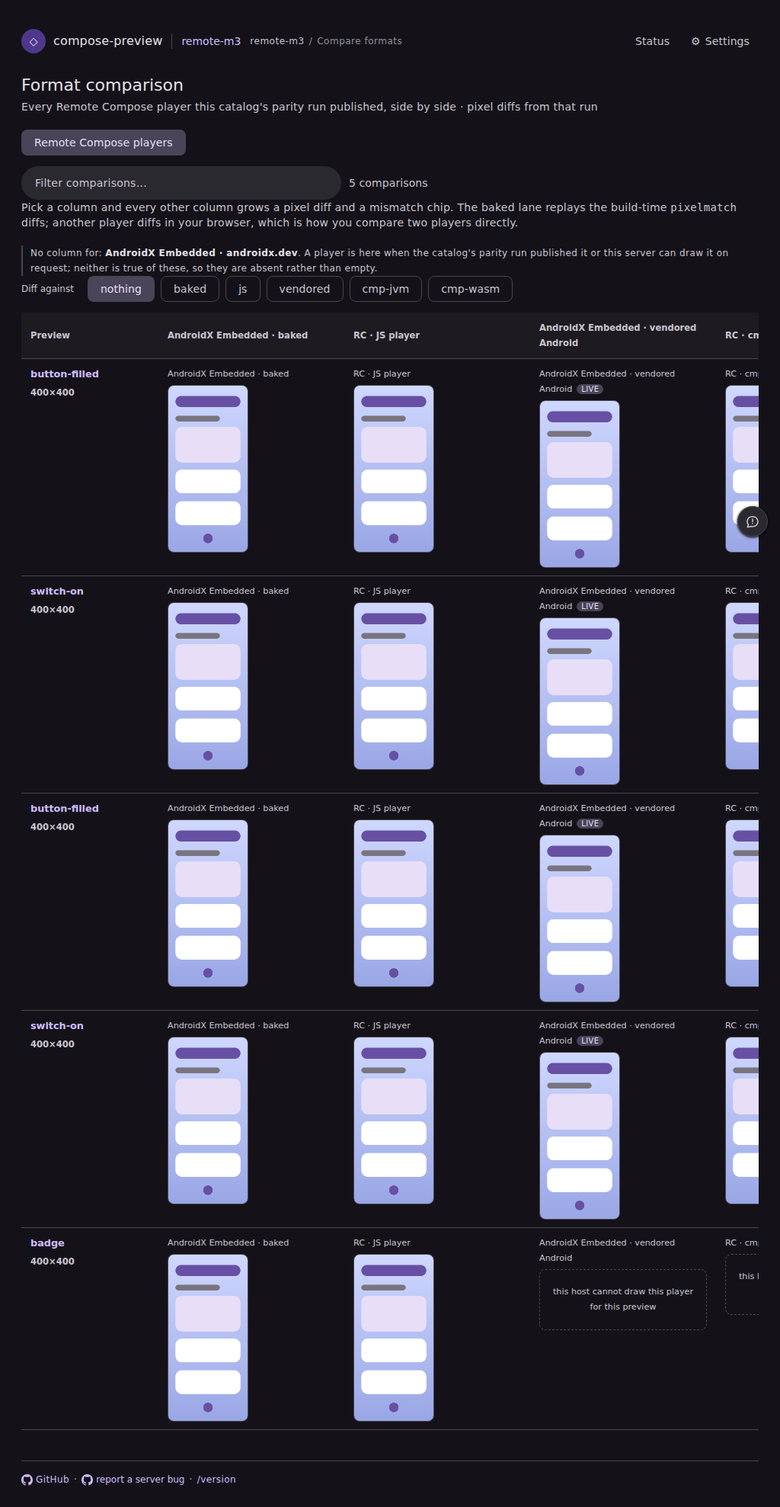
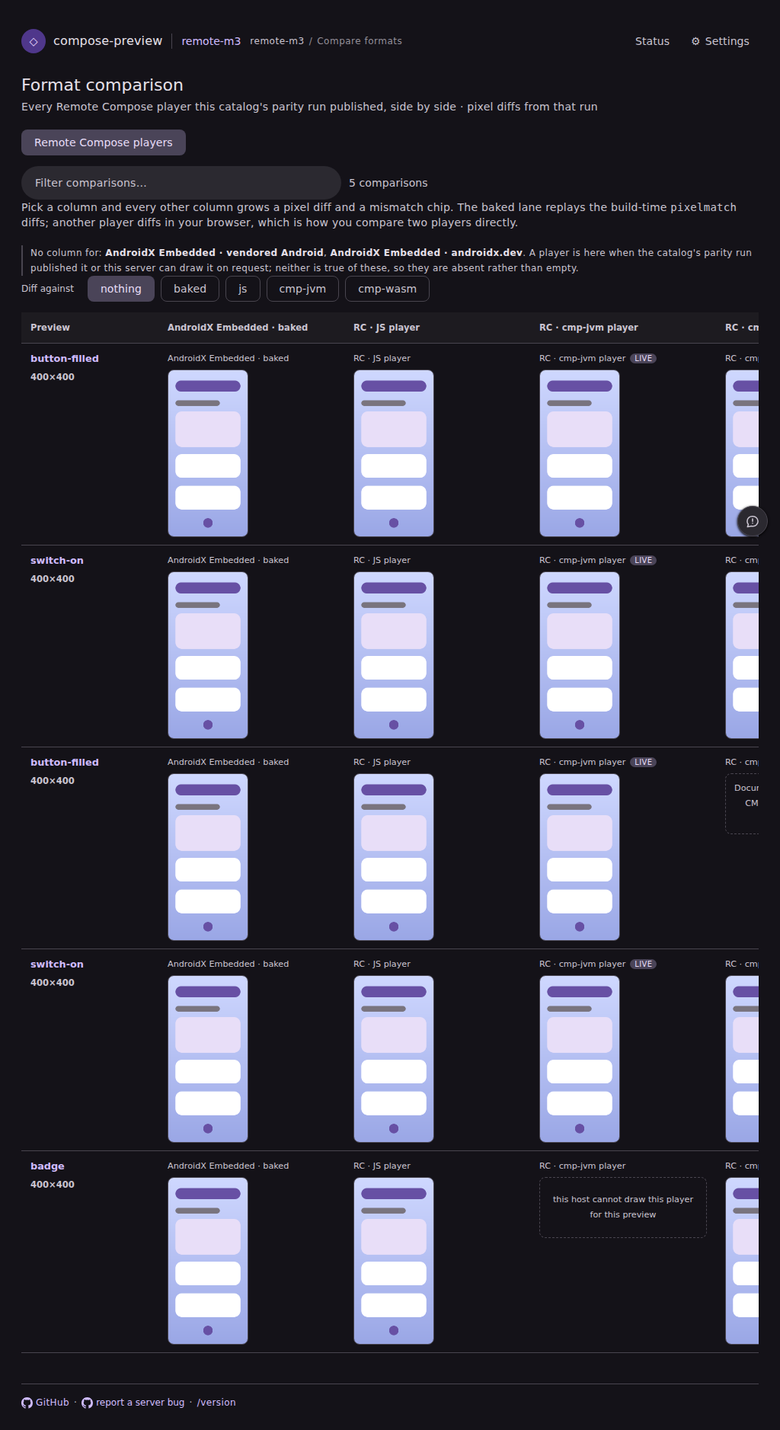
fix(serve): never fill a live column that duplicates the baked one
Testing the previous commit against the deployed remote-m3 host found the
defect it introduced. `?rcPlayer=cmp-android` there does not draw a second
opinion — it returns the baked capture itself, byte for byte:

  appcard__ideal__default__compact           baked e69d5136… cmp-android e69d5136…
  button-imagebackground__ideal__default__…  baked 48794c07… cmp-android 48794c07…

which follows from the players rather than from that host: `cmp-android` IS the
embedded AndroidX player, and a capture goes through it unless a preview pins
the view-backed lane. So the column would have been a copy of the one beside it
under a different player's name — a worse failure than the absent column it
replaced, because it asserts two players agree where nothing was compared.

`rcCompareLane` maps `cmp-android` to `embedded` for a different job — answering
a bare `?rcPlayer=` from staged bytes — and reusing it to decide what may FILL a
column was the mistake. The offline `embedded` lane is a third thing again: the
vendored player under this repo's Robolectric harness, a harness-vs-harness
check. Nothing records which player baked a row, so the duplication cannot be
caught per row either.

`LIVE_FILLABLE` now names what may fill: cmp-jvm, whose Skiko/Desktop rasteriser
cannot be what an Android capture was. `java` is distinct too but maps to no
published column, so filling one would invent a lane. The wall keeps reporting
both Android lanes absent, which on that host is the truth.
[…]

diff --git a/preview-harness/fixtures/pages/serve-rc-lanes-live.html b/preview-harness/fixtures/pages/serve-rc-lanes-live.html
@@ -79,15 +79,15 @@
         <p class="cp-sub">Pick a column and every other column grows a pixel diff and a mismatch chip.
           The baked lane replays the build-time <code>pixelmatch</code> diffs; another player diffs in your browser,
           which is how you compare two players directly.</p>
-        <p class="cp-rc-absent">No column for: <span class="cp-rc-absent-lane">AndroidX Embedded · androidx.dev</span>. A player is here when the catalog's parity run published it or this server can draw it on request; neither is true of these, so they are absent rather than empty.</p>
+        <p class="cp-rc-absent">No column for: <span class="cp-rc-absent-lane">AndroidX Embedded · vendored Android</span>, <span class="cp-rc-absent-lane">AndroidX Embedded · androidx.dev</span>. A player is here when the catalog's parity run published it or this server can draw it on request; neither is true of these, so they are absent rather than empty.</p>
         <div class="cp-compare-controls">
           <span class="cp-compare-control-label">Diff against</span>
-          <span class="cp-theme" role="group" aria-label="Diff reference"><button type="button" class="cp-theme-btn" data-rc-ref="none" aria-pressed="true">nothing</button><button type="button" class="cp-theme-btn" data-rc-ref="baked" aria-pressed="false">baked</button><button type="button" class="cp-theme-btn" data-rc-ref="js" aria-pressed="false">js</button><button type="button" class="cp-theme-btn" data-rc-ref="embedded" aria-pressed="false">vendored</button><button type="button" class="cp-theme-btn" data-rc-ref="cmp-jvm" aria-pressed="false">cmp-jvm</button><button type="button" class="cp-theme-btn" data-rc-ref="cmp-wasm" aria-pressed="false">cmp-wasm</button></span>
+          <span class="cp-theme" role="group" aria-label="Diff reference"><button type="button" class="cp-theme-btn" data-rc-ref="none" aria-pressed="true">nothing</button><button type="button" class="cp-theme-btn" data-rc-ref="baked" aria-pressed="false">baked</button><button type="button" class="cp-theme-btn" data-rc-ref="js" aria-pressed="false">js</button><button type="button" class="cp-theme-btn" data-rc-ref="cmp-jvm" aria-pressed="false">cmp-jvm</button><button type="button" class="cp-theme-btn" data-rc-ref="cmp-wasm" aria-pressed="false">cmp-wasm</button></span>
           <span id="cp-rc-status" class="cp-rc-status" role="status"></span>
         </div>
         <div class="cp-compare-table-wrap">
           <table class="cp-compare-table cp-rc-table">
-            <thead><tr><th>Preview</th><th>AndroidX Embedded · baked</th><th>RC · JS player</th><th>AndroidX Embedded · vendored Android</th><th>RC · cmp-jvm player</th><th>RC · cmp-wasm player</th></tr></thead>
+            <thead><tr><th>Preview</th><th>AndroidX Embedded · baked</th><th>RC · JS player</th><th>RC · cmp-jvm player</th><th>RC · cmp-wasm player</th></tr></thead>
             <tbody>
         <tr class="cp-rc-row" data-row="0" data-hay="button-filled button-filled__ideal__default__light button-filled__ideal__default__dark"
           data-preview-ids="button-filled__ideal__default__light button-filled__ideal__default__dark">
@@ -103,10 +103,6 @@
 </figure></td><td><figure class="cp-rc-cell" data-lane="js">
   <figcaption>RC · JS player<span class="cp-rc-refbadge">reference</span></figcaption>
   <img loading="lazy" src="/rc-compare/js/0.png?session=remote-m3" alt="button-filled — RC · JS player">
-  <div class="cp-rc-diffslot" hidden></div>
-</figure></td><td><figure class="cp-rc-cell" data-lane="embedded" data-live="1">
-  <figcaption>AndroidX Embedded · vendored Android<span class="cp-rc-livebadge" title="rendered by this server on request from the catalog's ir/*.rc document, not replayed from the parity run">live</span><span class="cp-rc-refbadge">reference</span></figcaption>
-  <img loading="lazy" src="/render/button-filled__ideal__default__light.png?session=remote-m3&amp;rcPlayer=cmp-android" alt="button-filled — AndroidX Embedded · vendored Android">
   <div class="cp-rc-diffslot" hidden></div>
 </figure></td><td><figure class="cp-rc-cell" data-lane="cmp-jvm" data-live="1">
   <figcaption>RC · cmp-jvm player<span class="cp-rc-livebadge" title="rendered by this server on request from the catalog's ir/*.rc document, not replayed from the parity run">live</span><span class="cp-rc-refbadge">reference</span></figcaption>
@@ -133,10 +129,6 @@
   <figcaption>RC · JS player<span class="cp-rc-refbadge">reference</span></figcaption>
   <img loading="lazy" src="/rc-compare/js/2.png?session=remote-m3" alt="switch-on — RC · JS player">
   <div class="cp-rc-diffslot" hidden></div>
-</figure></td><td><figure class="cp-rc-cell" data-lane="embedded" data-live="1">
-  <figcaption>AndroidX Embedded · vendored Android<span class="cp-rc-livebadge" title="rendered by this server on request from the catalog's ir/*.rc document, not replayed from the parity run">live</span><span class="cp-rc-refbadge">reference</span></figcaption>
-  <img loading="lazy" src="/render/switch-on__ideal__default__light.png?session=remote-m3&amp;rcPlayer=cmp-android" alt="switch-on — AndroidX Embedded · vendored Android">
-  <div class="cp-rc-diffslot" hidden></div>
 </figure></td><td><figure class="cp-rc-cell" data-lane="cmp-jvm" data-live="1">
   <figcaption>RC · cmp-jvm player<span class="cp-rc-livebadge" title="rendered by this server on request from the catalog's ir/*.rc document, not replayed from the parity run">live</span><span class="cp-rc-refbadge">reference</span></figcaption>
   <img loading="lazy" src="/render/switch-on__ideal__default__light.png?session=remote-m3&amp;rcPlayer=cmp-jvm" alt="switch-on — RC · cmp-jvm player">
@@ -161,10 +153,6 @@
 </figure></td><td><figure class="cp-rc-cell" data-lane="js">
   <figcaption>RC · JS player<span class="cp-rc-refbadge">reference</span></figcaption>
   <img loading="lazy" src="/rc-compare/js/1.png?session=remote-m3" alt="button-filled — RC · JS player">
-  <div class="cp-rc-diffslot" hidden></div>
-</figure></td><td><figure class="cp-rc-cell" data-lane="embedded" data-live="1">
-  <figcaption>AndroidX Embedded · vendored Android<span class="cp-rc-livebadge" title="rendered by this server on request from the catalog's ir/*.rc document, not replayed from the parity run">live</span><span class="cp-rc-refbadge">reference</span></figcaption>
-  <img loading="lazy" src="/render/button-filled__ideal__default__dark.png?session=remote-m3&amp;rcPlayer=cmp-android" alt="button-filled — AndroidX Embedded · vendored Android">
   <div class="cp-rc-diffslot" hidden></div>
 </figure></td><td><figure class="cp-rc-cell" data-lane="cmp-jvm" data-live="1">
   <figcaption>RC · cmp-jvm player<span class="cp-rc-livebadge" title="rendered by this server on request from the catalog's ir/*.rc document, not replayed from the parity run">live</span><span class="cp-rc-refbadge">reference</span></figcaption>
@@ -191,10 +179,6 @@
   <figcaption>RC · JS player<span class="cp-rc-refbadge">reference</span></figcaption>
   <img loading="lazy" src="/rc-compare/js/3.png?session=remote-m3" alt="switch-on — RC · JS player">
   <div class="cp-rc-diffslot" hidden></div>
-</figure></td><td><figure class="cp-rc-cell" data-lane="embedded" data-live="1">
-  <figcaption>AndroidX Embedded · vendored Android<span class="cp-rc-livebadge" title="rendered by this server on request from the catalog's ir/*.rc document, not replayed from the parity run">live</span><span class="cp-rc-refbadge">reference</span></figcaption>
-  <img loading="lazy" src="/render/switch-on__ideal__default__dark.png?session=remote-m3&amp;rcPlayer=cmp-android" alt="switch-on — AndroidX Embedded · vendored Android">
-  <div class="cp-rc-diffslot" hidden></div>
 </figure></td><td><figure class="cp-rc-cell" data-lane="cmp-jvm" data-live="1">
   <figcaption>RC · cmp-jvm player<span class="cp-rc-livebadge" title="rendered by this server on request from the catalog's ir/*.rc document, not replayed from the parity run">live</span><span class="cp-rc-refbadge">reference</span></figcaption>
   <img loading="lazy" src="/render/switch-on__ideal__default__dark.png?session=remote-m3&amp;rcPlayer=cmp-jvm" alt="switch-on — RC · cmp-jvm player">
@@ -220,10 +204,6 @@
   <figcaption>RC · JS player<span class="cp-rc-refbadge">reference</span></figcaption>
   <img loading="lazy" src="/rc-compare/js/4.png?session=remote-m3" alt="badge — RC · JS player">
   <div class="cp-rc-diffslot" hidden></div>
-</figure></td><td><figure class="cp-rc-cell" data-lane="embedded">
-  <figcaption>AndroidX Embedded · vendored Android<span class="cp-rc-refbadge">reference</span></figcaption>
-  <div class="cp-rc-missing">this host cannot draw this player for this preview</div>
-  <div class="cp-rc-diffslot" hidden></div>
 </figure></td><td><figure class="cp-rc-cell" data-lane="cmp-jvm">
   <figcaption>RC · cmp-jvm player<span class="cp-rc-refbadge">reference</span></figcaption>
   <div class="cp-rc-missing">this host cannot draw this player for this preview</div>
@@ -238,7 +218,7 @@
           </table>
         </div>
         <p id="cp-rc-empty" class="cp-empty" hidden>No comparisons match this filter.</p>
-        <script type="application/json" id="cp-rc-model">{"threshold":0.1,"lanes":[{"id":"baked","label":"AndroidX Embedded · baked","short":"baked"},{"id":"js","label":"RC · JS player","short":"js"},{"id":"cmp-wasm","label":"RC · cmp-wasm player","short":"cmp-wasm"}],"rows":[{"label":"button-filled","referenceBlank":false,"lanes":{"baked":{"rendered":true,"render":"/rc-compare/baked/0.png?session=remote-m3","diff":"","mismatchPct":null,"mismatchPx":null,"note":""},"js":{"rendered":true,"render":"/rc-compare/js/0.png?session=remote-m3","diff":"/rc-compare/js-diff/0.png?session=remote-m3","mismatchPct":2.97,"mismatchPx":9116,"note":""},"cmp-wasm":{"rendered":true,"render":"/rc-compare/cmp-wasm/0.png?session=remote-m3","diff":"/rc-compare/cmp-wasm-diff/0.png?session=remote-m3","mismatchPct":3.4,"mismatchPx":12040,"note":""},"embedded":{"rendered":true,"render":"/render/button-filled__ideal__default__light.png?session=remote-m3&rcPlayer=cmp-android","diff":"","mismatchPct":null,"mismatchPx":null,"note":""},"cmp-jvm":{"rendered":true,"render":"/render/button-filled__ideal__default__light.png?session=remote-m3&rcPlayer=cmp-jvm","diff":"","mismatchPct":null,"mismatchPx":null,"note":""}}},{"label":"switch-on","referenceBlank":false,"lanes":{"baked":{"rendered":true,"render":"/rc-compare/baked/2.png?session=remote-m3","diff":"","mismatchPct":null,"mismatchPx":null,"note":""},"js":{"rendered":true,"render":"/rc-compare/js/2.png?session=remote-m3","diff":"/rc-compare/js-diff/2.png?session=remote-m3","mismatchPct":2.17,"mismatchPx":7316,"note":""},"cmp-wasm":{"rendered":true,"render":"/rc-compare/cmp-wasm/2.png?session=remote-m3","diff":"/rc-compare/cmp-wasm-diff/2.png?session=remote-m3","mismatchPct":2.8,"mismatchPx":10240,"note":""},"embedded":{"rendered":true,"render":"/render/switch-on__ideal__default__light.png?session=remote-m3&rcPlayer=cmp-android","diff":"","mismatchPct":null,"mismatchPx":null,"note":""},"cmp-jvm":{"rendered":true,"render":"/render/switch-on__ideal__default__light.png?session=remote-m3&rcPlayer=cmp-jvm","diff":"","mismatchPct":null,"mismatchPx":null,"note":""}}},{"label":"button-filled","referenceBlank":false,"lanes":{"baked":{"rendered":true,"render":"/rc-compare/baked/1.png?session=remote-m3","diff":"","mismatchPct":null,"mismatchPx":null,"note":""},"js":{"rendered":true,"render":"/rc-compare/js/1.png?session=remote-m3","diff":"/rc-compare/js-diff/1.png?session=remote-m3","mismatchPct":2.5700000000000003,"mismatchPx":8216,"note":""},"cmp-wasm":{"rendered":false,"render":"","diff":"","mismatchPct":null,"mismatchPx":null,"note":"Document is not renderable by the CMP player: CoreText requires DataFont"},"embedded":{"rendered":true,"render":"/render/button-filled__ideal__default__dark.png?session=remote-m3&rcPlayer=cmp-android","diff":"","mismatchPct":null,"mismatchPx":null,"note":""},"cmp-jvm":{"rendered":true,"render":"/render/button-filled__ideal__default__dark.png?session=remote-m3&rcPlayer=cmp-jvm","diff":"","mismatchPct":null,"mismatchPx":null,"note":""}}},{"label":"switch-on","referenceBlank":false,"lanes":{"baked":{"rendered":true,"render":"/rc-compare/baked/3.png?session=remote-m3","diff":"","mismatchPct":null,"mismatchPx":null,"note":""},"js":{"rendered":true,"render":"/rc-compare/js/3.png?session=remote-m3","diff":"/rc-compare/js-diff/3.png?session=remote-m3","mismatchPct":1.77,"mismatchPx":6416,"note":""},"cmp-wasm":{"rendered":true,"render":"/rc-compare/cmp-wasm/3.png?session=remote-m3","diff":"/rc-compare/cmp-wasm-diff/3.png?session=remote-m3","mismatchPct":2.5,"mismatchPx":9340,"note":""},"embedded":{"rendered":true,"render":"/render/switch-on__ideal__default__dark.png?session=remote-m3&rcPlayer=cmp-android","diff":"","mismatchPct":null,"mismatchPx":null,"note":""},"cmp-jvm":{"rendered":true,"render":"/render/switch-on__ideal__default__dark.png?session=remote-m3&rcPlayer=cmp-jvm","diff":"","mismatchPct":null,"mismatchPx":null,"note":""}}},{"label":"badge","referenceBlank":false,"lanes":{"baked":{"rendered":true,"render":"/rc-compare/baked/4.png?session=remote-m3","diff":"","mismatchPct":null,"mismatchPx":null,"note":""},"js":{"rendered":true,"render":"/rc-compare/js/4.png?session=remote-m3","diff":"/rc-compare/js-diff/4.png?session=remote-m3","mismatchPct":1.37,"mismatchPx":5516,"note":""},"cmp-wasm":{"rendered":true,"render":"/rc-compare/cmp-wasm/4.png?session=remote-m3","diff":"/rc-compare/cmp-wasm-diff/4.png?session=remote-m3","mismatchPct":2.2,"mismatchPx":8440,"note":""},"embedded":{"rendered":false,"render":"","diff":"","mismatchPct":null,"mismatchPx":null,"note":"this host cannot draw this player for this preview"},"cmp-jvm":{"rendered":false,"render":"","diff":"","mismatchPct":null,"mismatchPx":null,"note":"this host cannot draw this player for this preview"}}}]}</script>
+        <script type="application/json" id="cp-rc-model">{"threshold":0.1,"lanes":[{"id":"baked","label":"AndroidX Embedded · baked","short":"baked"},{"id":"js","label":"RC · JS player","short":"js"},{"id":"cmp-wasm","label":"RC · cmp-wasm player","short":"cmp-wasm"}],"rows":[{"label":"button-filled","referenceBlank":false,"lanes":{"baked":{"rendered":true,"render":"/rc-compare/baked/0.png?session=remote-m3","diff":"","mismatchPct":null,"mismatchPx":null,"note":""},"js":{"rendered":true,"render":"/rc-compare/js/0.png?session=remote-m3","diff":"/rc-compare/js-diff/0.png?session=remote-m3","mismatchPct":2.97,"mismatchPx":9116,"note":""},"cmp-wasm":{"rendered":true,"render":"/rc-compare/cmp-wasm/0.png?session=remote-m3","diff":"/rc-compare/cmp-wasm-diff/0.png?session=remote-m3","mismatchPct":3.4,"mismatchPx":12040,"note":""},"cmp-jvm":{"rendered":true,"render":"/render/button-filled__ideal__default__light.png?session=remote-m3&rcPlayer=cmp-jvm","diff":"","mismatchPct":null,"mismatchPx":null,"note":""}}},{"label":"switch-on","referenceBlank":false,"lanes":{"baked":{"rendered":true,"render":"/rc-compare/baked/2.png?session=remote-m3","diff":"","mismatchPct":null,"mismatchPx":null,"note":""},"js":{"rendered":true,"render":"/rc-compare/js/2.png?session=remote-m3","diff":"/rc-compare/js-diff/2.png?session=remote-m3","mismatchPct":2.17,"mismatchPx":7316,"note":""},"cmp-wasm":{"rendered":true,"render":"/rc-compare/cmp-wasm/2.png?session=remote-m3","diff":"/rc-compare/cmp-wasm-diff/2.png?session=remote-m3","mismatchPct":2.8,"mismatchPx":10240,"note":""},"cmp-jvm":{"rendered":true,"render":"/render/switch-on__ideal__default__light.png?session=remote-m3&rcPlayer=cmp-jvm","diff":"","mismatchPct":null,"mismatchPx":null,"note":""}}},{"label":"button-filled","referenceBlank":false,"lanes":{"baked":{"rendered":true,"render":"/rc-compare/baked/1.png?session=remote-m3","diff":"","mismatchPct":null,"mismatchPx":null,"note":""},"js":{"rendered":true,"render":"/rc-compare/js/1.png?session=remote-m3","diff":"/rc-compare/js-diff/1.png?session=remote-m3","mismatchPct":2.5700000000000003,"mismatchPx":8216,"note":""},"cmp-wasm":{"rendered":false,"render":"","diff":"","mismatchPct":null,"mismatchPx":null,"note":"Document is not renderable by the CMP player: CoreText requires DataFont"},"cmp-jvm":{"rendered":true,"render":"/render/button-filled__ideal__default__dark.png?session=remote-m3&rcPlayer=cmp-jvm","diff":"","mismatchPct":null,"mismatchPx":null,"note":""}}},{"label":"switch-on","referenceBlank":false,"lanes":{"baked":{"rendered":true,"render":"/rc-compare/baked/3.png?session=remote-m3","diff":"","mismatchPct":null,"mismatchPx":null,"note":""},"js":{"rendered":true,"render":"/rc-compare/js/3.png?session=remote-m3","diff":"/rc-compare/js-diff/3.png?session=remote-m3","mismatchPct":1.77,"mismatchPx":6416,"note":""},"cmp-wasm":{"rendered":true,"render":"/rc-compare/cmp-wasm/3.png?session=remote-m3","diff":"/rc-compare/cmp-wasm-diff/3.png?session=remote-m3","mismatchPct":2.5,"mismatchPx":9340,"note":""},"cmp-jvm":{"rendered":true,"render":"/render/switch-on__ideal__default__dark.png?session=remote-m3&rcPlayer=cmp-jvm","diff":"","mismatchPct":null,"mismatchPx":null,"note":""}}},{"label":"badge","referenceBlank":false,"lanes":{"baked":{"rendered":true,"render":"/rc-compare/baked/4.png?session=remote-m3","diff":"","mismatchPct":null,"mismatchPx":null,"note":""},"js":{"rendered":true,"render":"/rc-compare/js/4.png?session=remote-m3","diff":"/rc-compare/js-diff/4.png?session=remote-m3","mismatchPct":1.37,"mismatchPx":5516,"note":""},"cmp-wasm":{"rendered":true,"render":"/rc-compare/cmp-wasm/4.png?session=remote-m3","diff":"/rc-compare/cmp-wasm-diff/4.png?session=remote-m3","mismatchPct":2.2,"mismatchPx":8440,"note":""},"cmp-jvm":{"rendered":false,"render":"","diff":"","mismatchPct":null,"mismatchPx":null,"note":"this host cannot draw this player for this preview"}}}]}</script>
         <!-- Picks the reference, measures the rows and fills in the chips. Emitted LAST in this
              section, immediately after the model it reads: `format-compare.js` calls
              `window.cpRcLanes.filter()` on its very first pass, so the element has to be able to

diff --git a/server/src/test/kotlin/ee/schimke/composeai/cli/serve/ServeWebFixtureTest.kt b/server/src/test/kotlin/ee/schimke/composeai/cli/serve/ServeWebFixtureTest.kt
@@ -1786,8 +1786,10 @@ class ServeWebFixtureTest {
         trust = "branch:yschimke/compose-ai-tools@design-artifacts/remote-m3",
         isPublic = true,
         rcCompare = rcCompareFixture(themedPreviews, lanes = setOf("baked", "js", "cmp-wasm")),
-        // `badge` stands in for a preview the host carries no document for, so the wall has to
-        // show a column its rows do not all fill.
+        // The host offers BOTH server-side players, and the wall must take only cmp-jvm: on an
+        // Android daemon `?rcPlayer=cmp-android` returns the baked capture itself, so that column
+        // would duplicate the one beside it. `badge` stands in for a preview the host carries no
+        // document for, so the wall also has to show a column its rows do not all fill.
         liveRcPlayersFor = { previewId ->
           if (previewId.startsWith("badge")) emptyList()
           else listOf(RcPlayerBackend.CMP_ANDROID, RcPlayerBackend.CMP_JVM)
@@ -4356,7 +4358,6 @@ class ServeWebFixtureTest {
       listOf(
         "AndroidX Embedded · baked",
         "RC · JS player",
-        "AndroidX Embedded · vendored Android",
         "RC · cmp-jvm player",
         "RC · cmp-wasm player",
       ),
@@ -4365,10 +4366,15 @@ class ServeWebFixtureTest {
         .map { it.groupValues[1] }
         .toList()
         .drop(1),
-      "a host that can draw a player gets its column, ordered with the published ones",
+      "a live column appears for a renderer that cannot duplicate the baked capture, and only that",
+    )
+    // The one that must NOT appear, and the reason this filter exists at all.
+    assertFalse(
+      rcLanesLiveComparison.contains("rcPlayer=cmp-android"),
+      "cmp-android is never filled live: an Android daemon answers it with the baked bytes",
     )
     assertEquals(
-      listOf("AndroidX Embedded · androidx.dev"),
+      listOf("AndroidX Embedded · vendored Android", "AndroidX Embedded · androidx.dev"),
       Regex("<span class=\"cp-rc-absent-lane\">([^<]+)</span>")
         .findAll(rcLanesLiveComparison)
         .map { it.groupValues[1] }
@@ -4376,7 +4382,7 @@ class ServeWebFixtureTest {
       "only a player neither published nor drawable on demand is still reported absent",
     )
     assertEquals(
-      listOf("none", "baked", "js", "embedded", "cmp-jvm", "cmp-wasm"),
+      listOf("none", "baked", "js", "cmp-jvm", "cmp-wasm"),
       Regex("data-rc-ref=\"([^\"]+)\"")
         .findAll(rcLanesLiveComparison)
         .map { it.groupValues[1] }
@@ -4388,17 +4394,14 @@ class ServeWebFixtureTest {
     // whether or not the lane was ever staged.
     assertTrue(
       rcLanesLiveComparison.contains(
-        "/render/button-filled__ideal__default__light.png?session=remote-m3&amp;rcPlayer=cmp-android"
-      ) &&
-        rcLanesLiveComparison.contains(
-          "/render/button-filled__ideal__default__light.png?session=remote-m3&amp;rcPlayer=cmp-jvm"
-        ),
+        "/render/button-filled__ideal__default__light.png?session=remote-m3&amp;rcPlayer=cmp-jvm"
+      ),
       "a live cell points at this host's render endpoint for that player and preview",
     )
     assertEquals(
-      8,
+      4,
       Regex("data-live=\"1\"").findAll(rcLanesLiveComparison).count(),
-      "every live cell is marked as drawn on request — two players over the four rows that carry a document",
+      "every live cell is marked as drawn on request — one player over the four rows that carry a document",
     )
     assertTrue(
       rcLanesLiveComparison.contains(

diff --git a/server/src/main/kotlin/ee/schimke/composeai/cli/serve/ServeWeb.kt b/server/src/main/kotlin/ee/schimke/composeai/cli/serve/ServeWeb.kt
@@ -10070,6 +10070,30 @@ ${captureControlsHtml().prependIndent("          ")}
   }
 
   /**
+   * The backends a missing column may be filled from by rendering it live — NOT simply every
+   * backend the host can draw, which is the whole point of the distinction.
+   *
+   * `cmp-android` is the embedded AndroidX player, and a catalog's baked capture goes through that
+   * same player (it is what `RemoteOverridablePreview` defaults to), so on an Android daemon
+   * `?rcPlayer=cmp-android` hands back the baked bytes themselves. Measured against the deployed
+   * `remote-m3` host: `appcard__ideal__default__compact` answers md5 `e69d5136…` to both the bare
+   * render and `?rcPlayer=cmp-android`, and `button-imagebackground__ideal__default__compact`
+   * answers `48794c07…` to both. A column filled from that would be a pixel-for-pixel copy of the
+   * baked column under another player's name — worse than an absent column, because it asserts that
+   * two players agree where nothing was compared.
+   *
+   * The offline `embedded` lane is a third thing again: the vendored/local-patch player under this
+   * repo's own Robolectric harness, a harness-vs-harness check on that same player. Nothing records
+   * which player baked a given row (see [ServeRcCompare.LANES]'s note on provenance), so the
+   * duplication cannot be detected per row either — carry that provenance before widening this set.
+   *
+   * `cmp-jvm` is safe: Compose Desktop / Skiko is a different rasteriser from anything an Android
+   * capture can be. `java` is genuinely distinct too, but maps to no published column, so filling
+   * one would invent a lane the offline vocabulary does not have.
+   */
+  private val LIVE_FILLABLE = setOf(RcPlayerBackend.CMP_JVM)
+
+  /**
    * The **Remote Compose players** view: every player's published render of every `ir/<id>.rc`
    * document, one column per player, with the baked capture (the offline Robolectric/Skiko render,
    * and the reference the offline run scored everything against) first.
@@ -10118,16 +10142,13 @@ ${captureControlsHtml().prependIndent("          ")}
 
     // ---- The live columns -------------------------------------------------------------------
     //
-    // A player this host can draw but the published run has no column for. Only the server-side
-    // raster backends qualify: the client-side ones (`js`, `cmp-wasm`) paint in the visitor's
-    // browser rather than answering an `<img>`, and `java` maps to no published column at all, so
-    // adding one here would invent a lane the vocabulary does not have.
+    // A player this host can draw, that the published run has no column for, and that cannot come
+    // back as a copy of a column already on the wall. [LIVE_FILLABLE] carries the last condition
+    // and the measurements behind it.
     val publishedLaneIds = manifest.lanes.mapTo(mutableSetOf()) { it.id }
     val liveCandidates =
       RcPlayerBackend.UNIVERSE.filter { backend ->
-        !backend.clientSide &&
-          backend.rcCompareLane != null &&
-          backend.rcCompareLane !in publishedLaneIds
+        backend in LIVE_FILLABLE && backend.rcCompareLane !in publishedLaneIds
       }
     // Availability is per preview — a host can carry the document for one and not another — so a
     // column appears when ANY row can draw it, and the rows that cannot say so in their own cell.

diff --git a/renders/rc-lane-absence/README.md b/renders/rc-lane-absence/README.md
@@ -19,7 +19,7 @@ the lane vocabulary it subtracts the published lanes from is
 | `rc-lanes-partial.before.light.png` | the three-column wall as it shipped: nothing says the other three players exist |
 | `rc-lanes-partial.after.light.png` | the same wall naming the players the run did not include |
 | `rc-lanes-partial.after.dark.png` | the same page in the dark scheme |
-| `rc-lanes-live.light.png` | the same partial run on a host that can draw two of the missing players itself: five columns, the live ones badged, and only the player nothing can produce still reported absent |
+| `rc-lanes-live.light.png` | the same partial run on a host that can draw a missing player itself: the cmp-jvm column filled live and badged, the two Android lanes still reported absent |
 | `rc-lanes-live.dark.png` | the live wall in the dark scheme |
 
 All are headless-Chromium captures of committed harness fixtures —
@@ -33,3 +33,10 @@ the offline run, but the recorded `ir/<id>.rc` document plus a host that can pla
 fill the column anyway. `ServeWeb.rcLanesSection` adds a column for every backend
 [`ServeHost.enabledRcPlayersFor`](../../render-host/src/main/kotlin/ee/schimke/composeai/cli/serve/ServeHost.kt)
 reports that the run has none for, pointing it at `/render/<id>.png?rcPlayer=<wire>`.
+
+Not every drawable player, though, and the capture shows which: `cmp-android` is deliberately left
+absent. It is the same embedded player a catalog's capture bakes through, so an Android daemon
+answers `?rcPlayer=cmp-android` with the baked bytes themselves — measured against the deployed
+`remote-m3` host, `appcard__ideal__default__compact` returns md5 `e69d5136…` for both. Filling that
+column would put a pixel-for-pixel copy of `baked` under another player's name, which asserts an
+agreement nothing measured. `ServeWeb.LIVE_FILLABLE` carries the rule and the numbers.
